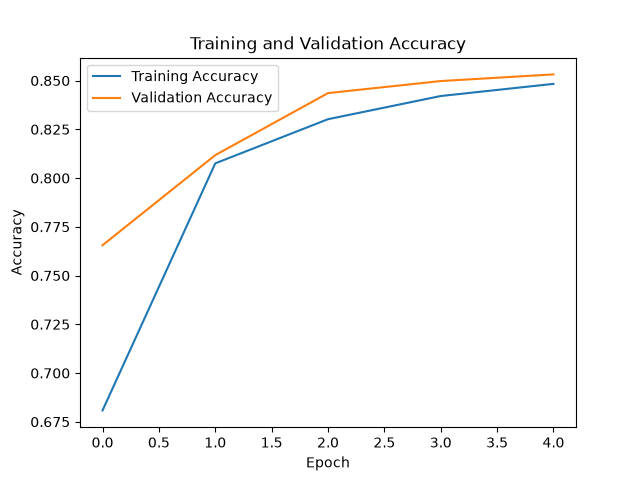
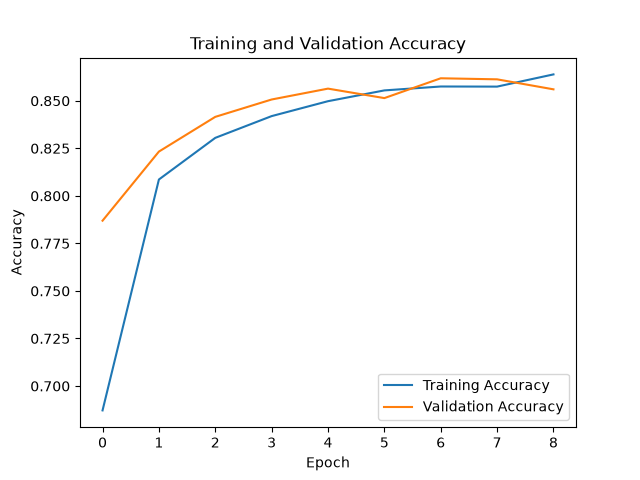
update in train_model file for more training

diff --git a/train_model.py b/train_model.py
@@ -36,7 +36,7 @@ RESULTS_DIR.mkdir(exist_ok=True)
 # -----------------------------
 IMG_SIZE = (224, 224)
 BATCH_SIZE = 32
-EPOCHS = 5
+EPOCHS = 10
 
 MODEL_PATH = MODEL_DIR / "lung_model.keras"
 CLASS_NAMES_PATH = MODEL_DIR / "class_names.json"